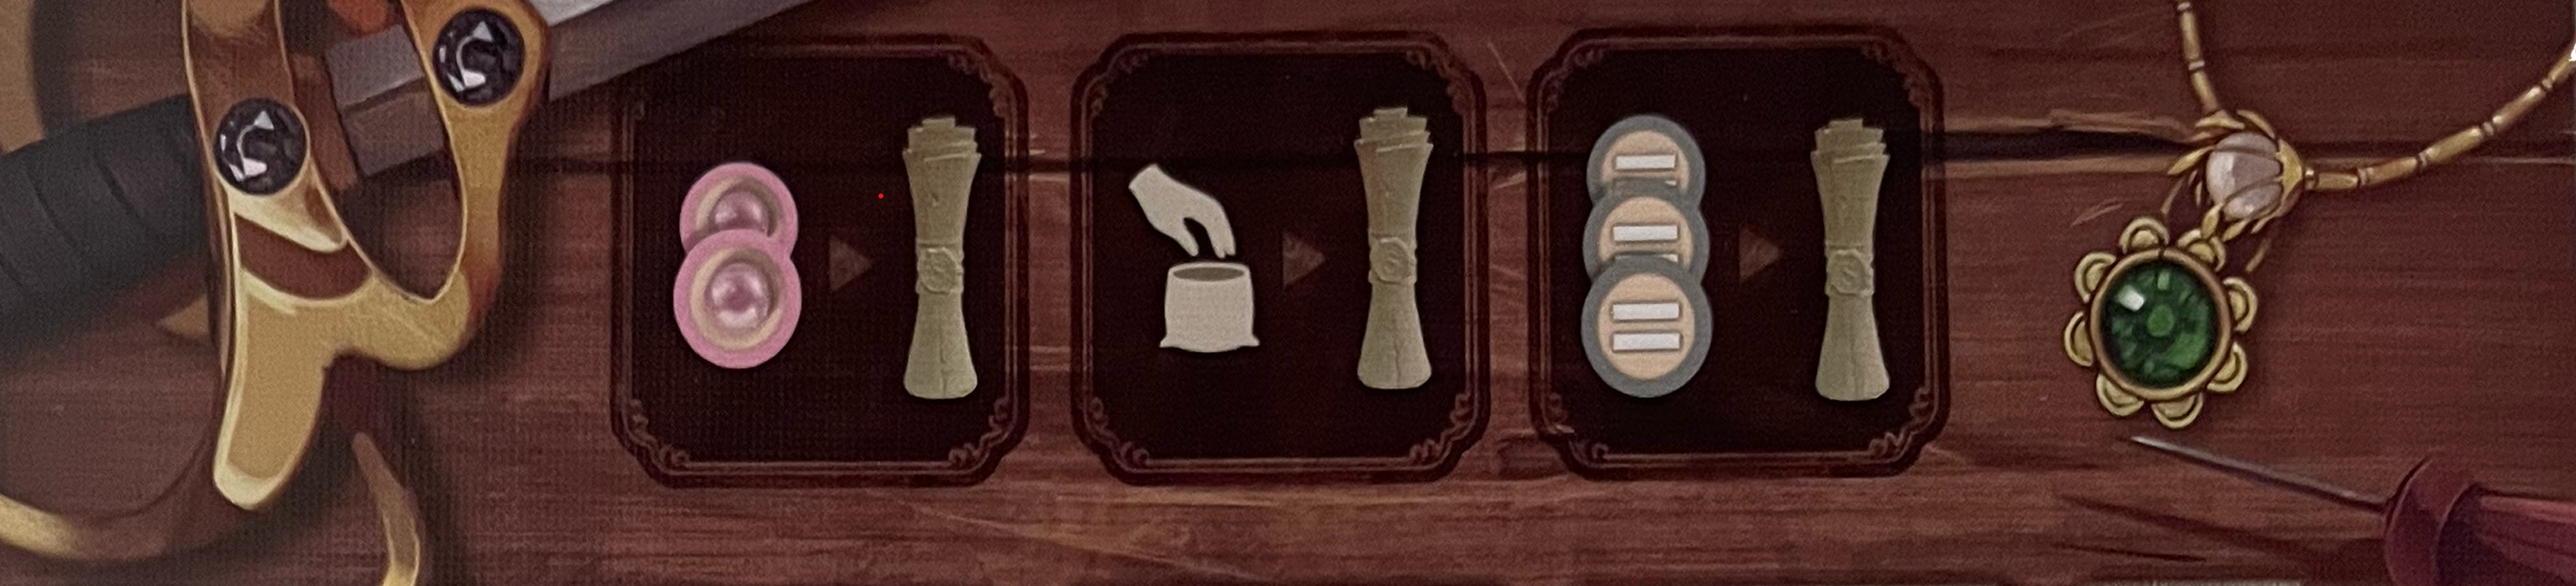
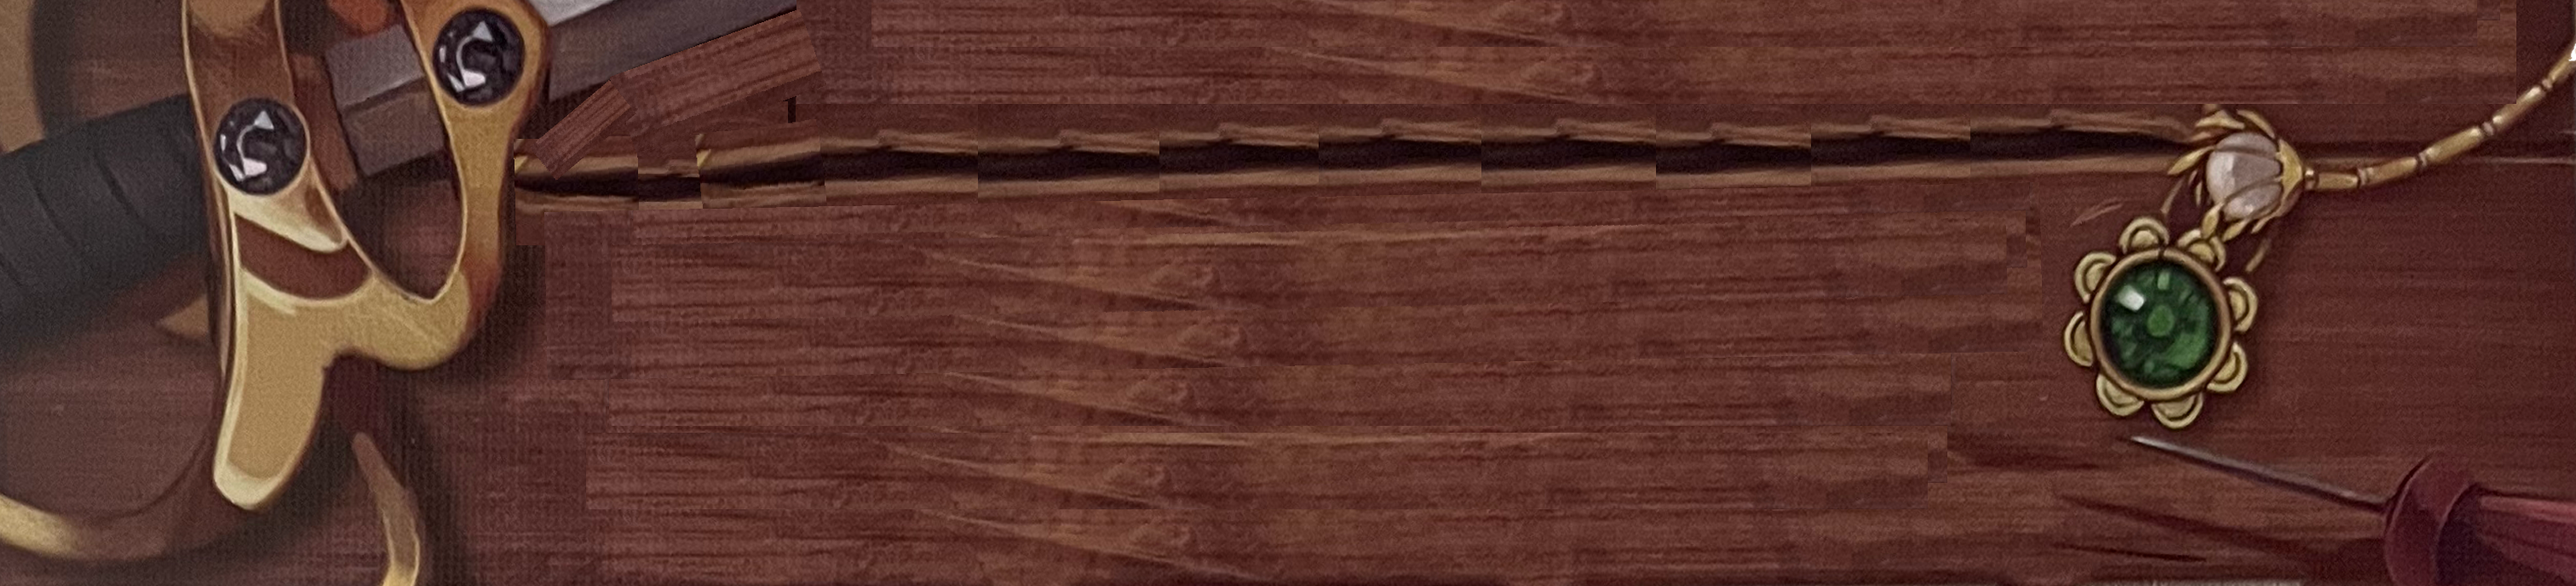
Ajout de la reduction de prise de gemmes et modif des fonds

diff --git a/SplendorDuel/PlayersUI.cpp b/SplendorDuel/PlayersUI.cpp
@@ -3,6 +3,7 @@
 #include <qlabel.h>
 #include "CardUI.h"
 #include "PlayerNameUI.h"
+#include "PlayerCardUI.h"
 
 PlayersUI::PlayersUI(QWidget* parent, QString pname, int nb) : QWidget(parent){
 	setSizePolicy(QSizePolicy::Expanding, QSizePolicy::Expanding);
@@ -12,32 +13,16 @@ PlayersUI::PlayersUI(QWidget* parent, QString pname, int nb) : QWidget(parent){
 
 	setLayout(grid);
 	pgems = new PlayerGemsUI(this);
-	QWidget* m = new QWidget(this);
-	QGridLayout* g = new QGridLayout(m);
-	m->setLayout(g);
-	g->setContentsMargins(0, 0, 0, 0);
-	g->setSpacing(0);
-
-	for (int i = 0; i < 6; i++) {
-		if (i == 5) {
-			CardUI* c = new CardUI(m, QString());
-			c->ajouterCarte("./Card2.png");
-			c->ajouterCarte("./Card3.png");
-			g->addWidget(c, 0, i);
-		}
-		else {
-			g->addWidget(new CardUI(m, QString()), 0, i);
-		}
-	}
+	PlayerCardUI* pcard = new PlayerCardUI(this);
 	if (nb == 1) {
 		grid->addWidget(new PlayerNameUI(pname, this), 1);
 		grid->addWidget(pgems, 8);
 		grid->addWidget(new QWidget(this), 3);
-		grid->addWidget(m, 8);
+		grid->addWidget(pcard, 8);
 	}
 		
 	if (nb == 2) {
-		grid->addWidget(m, 8);
+		grid->addWidget(pcard, 8);
 		grid->addWidget(new QWidget(this), 3);
 		grid->addWidget(pgems, 8);
 		grid->addWidget(new PlayerNameUI(pname, this), 1);

diff --git a/SplendorDuel/Rules.cpp b/SplendorDuel/Rules.cpp
@@ -5,13 +5,15 @@ Action Rules::isPossibleTakeGems(const Board b, const int* posTab, Action action
 		int nb = 0;
 		//GEmmes pas vide et pas d'or et compte le nombre de perle
 		for (int i = 0; i < 3; i++) {
-			if (!b.positionPasVide(posTab[i]) || b.connaitreGemmes(posTab[i]) == Gemmes::Or)
-				return Action::IMPOSSIBLE;
-			if (b.connaitreGemmes(posTab[i]) == Gemmes::Perle)
-				nb++;
+			if (posTab[i] != -1) {
+				if (!b.positionPasVide(posTab[i]) || b.connaitreGemmes(posTab[i]) == Gemmes::Or)
+					return Action::IMPOSSIBLE;
+				if (b.connaitreGemmes(posTab[i]) == Gemmes::Perle)
+					nb++;
+			}
 		}
 		//Si 3 gemmes pareils
-		if (b.connaitreGemmes(posTab[0]) == b.connaitreGemmes(posTab[1]) && b.connaitreGemmes(posTab[1]) == b.connaitreGemmes(posTab[2]))
+		if (b.connaitreGemmes((posTab[1]!=-1 && posTab[2]!=-1) && (posTab[0]) == b.connaitreGemmes(posTab[1]) && b.connaitreGemmes(posTab[1]) == b.connaitreGemmes(posTab[2])))
 			return Action::ADD_PRIVILEGE;
 		//si 2 perle piocher
 		if (nb >= 2)

diff --git a/SplendorDuel/PlayerCardUI.cpp b/SplendorDuel/PlayerCardUI.cpp
@@ -1,9 +1,27 @@
 #include "PlayerCardUI.h"
+#include <qgridlayout.h>
 
 PlayerCardUI::PlayerCardUI(QWidget* parent) : GemmesContainerGUI(parent) {
 	this->cards = new CardUI * [6]();
-
 	setSizePolicy(QSizePolicy::Expanding, QSizePolicy::Expanding);
+	setMinimumSize(20 * 6, 30);
+	QGridLayout* g = new QGridLayout(this);
+	this->setLayout(g);
+	g->setContentsMargins(0, 0, 0, 0);
+	g->setSpacing(0);
+
+	for (int i = 0; i < 6; i++) {
+		if (i == 5) {
+			CardUI* c = new CardUI(this, QString());
+			c->ajouterCarte("./Card2.png");
+			c->ajouterCarte("./Card3.png");
+			g->addWidget(c, 0, i);
+		}
+		else {
+			g->addWidget(new CardUI(this, QString()), 0, i);
+		}
+	}
+
 }
 
 PlayerCardUI::~PlayerCardUI() {

diff --git a/SplendorDuel/GameHandler.cpp b/SplendorDuel/GameHandler.cpp
@@ -50,14 +50,16 @@ bool GameHandler::gemmesPick(const int *posTab){
 
 	case Action::MAIN_ACTION:
 		for (int i = 0; i < 3; i++) {
-		 	instance->bag.addGemmes(instance->board.prendreGemme(posTab[i]));
+			if(posTab[i]!=-1)
+		 		instance->bag.addGemmes(instance->board.prendreGemme(posTab[i]));
 		}
 		return true;
 	case Action::ADD_PRIVILEGE:
 		//TODO
 		if (instance->action == Action::MAIN_ACTION) {
 			for (int i = 0; i < 3; i++) {
-				instance->bag.addGemmes(instance->board.prendreGemme(posTab[i]));
+				if (posTab[i] != -1)
+					instance->bag.addGemmes(instance->board.prendreGemme(posTab[i]));
 			}
 		}
 		//TODO LE PRIVILEGE

diff --git a/SplendorDuel/RemplirBoardUI.cpp b/SplendorDuel/RemplirBoardUI.cpp
@@ -46,9 +46,13 @@ void RemplirBoard::paintEvent(QPaintEvent* event) {
 	QPixmap pix = Image::getUnderPlateau();
 	painter.drawPixmap(0, 0, width(), height(), pix);
 	//si hover on fait grossir l'image de remplir
+	QPixmap x = Image::getRemplir();
+
 	if (hover) {
-		QPixmap x = Image::getRemplir();
 		painter.drawPixmap(width()/2-height()/2, 0, height(), height(), x);
+	}
+	else {
+		painter.drawPixmap(width() / 2- height() / 10 * 4, height() / 8, height()/10*8, height()/8*6, x);
 	}
 }
 

diff --git a/SplendorDuel/PlayerGemsUI.cpp b/SplendorDuel/PlayerGemsUI.cpp
@@ -64,8 +64,8 @@ void PlayerGemsUI::paintEvent(QPaintEvent* event) {
 void PlayerGemsUI::resizeEvent(QResizeEvent* event) {
 	QWidget::resizeEvent(event);
 	//on force que les gemmes soit carrer ou au moins width > height/2
-	int min = qMin(width() / 7, height());
-	resize(min*7, min);
+	int min = qMin(width() / 7, height()/3*2);
+	resize(min*7, min/2*3);
 	this->update();
 }
 

diff --git a/SplendorDuel/SplendorDuel.cpp b/SplendorDuel/SplendorDuel.cpp
@@ -66,4 +66,7 @@ void SplendorDuel::keyPressEvent(QKeyEvent* e) {
     if (e->key() == Qt::Key_N && e->type()==QEvent::KeyPress && e->isAutoRepeat()== false){
         instance->board->changeDirection();
     }
+    if (e->key() == Qt::Key_L && e->type() == QEvent::KeyPress && e->isAutoRepeat() == false) {
+        instance->board->changeNbGemmesTOSelect();
+    }
 };

diff --git a/SplendorDuel/CompleteBoardUI.h b/SplendorDuel/CompleteBoardUI.h
@@ -20,6 +20,8 @@ public:
 
 	//redistribue l'event au bon composant
 	inline void changeDirection(){ board.changeDirection(); };
+	//redistribue l'event au bon composant
+	inline void changeNbGemmesTOSelect() { board.changeNbGemmes(); };
 	//redistribue l'event de rmeplir le board
 	inline void remplirBoard(Board b) { board.setGemmes(b); };
 private:

diff --git a/SplendorDuel/BoardCard.h b/SplendorDuel/BoardCard.h
@@ -1,0 +1,5 @@
+#pragma once
+class BoardCard
+{
+};
+

diff --git a/SplendorDuel/BoardCard.cpp b/SplendorDuel/BoardCard.cpp
@@ -1,0 +1,1 @@
+#include "BoardCard.h"
